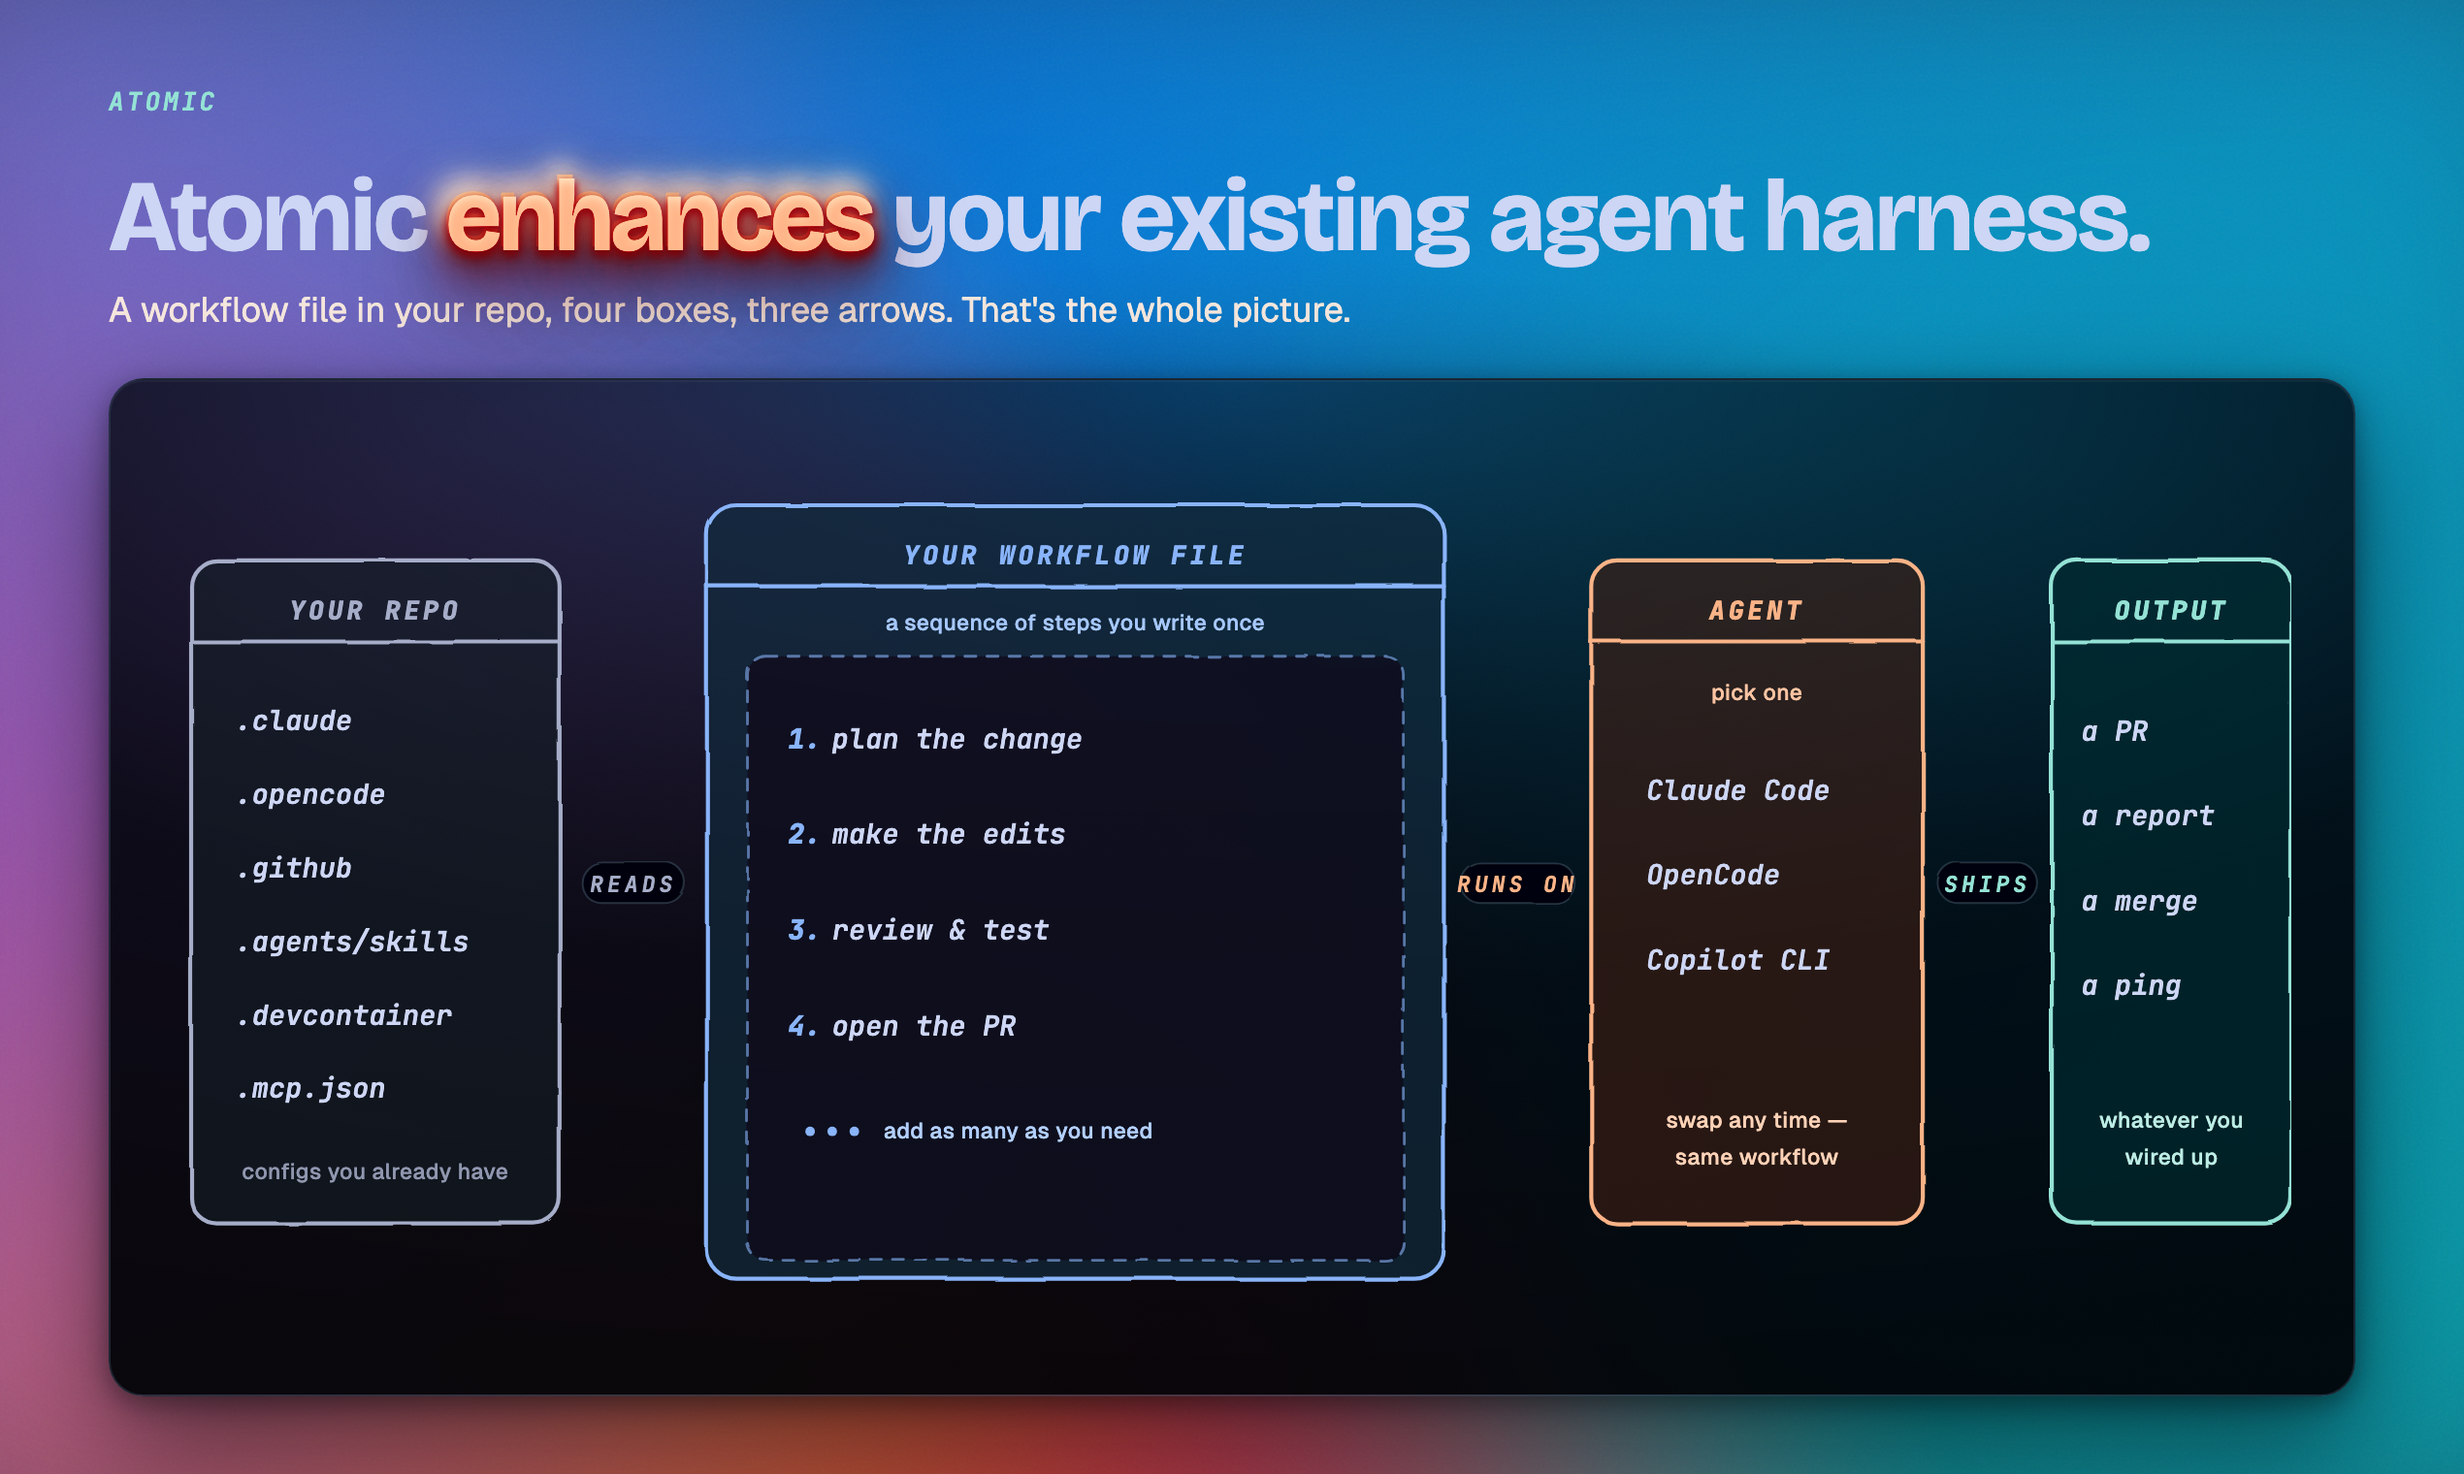
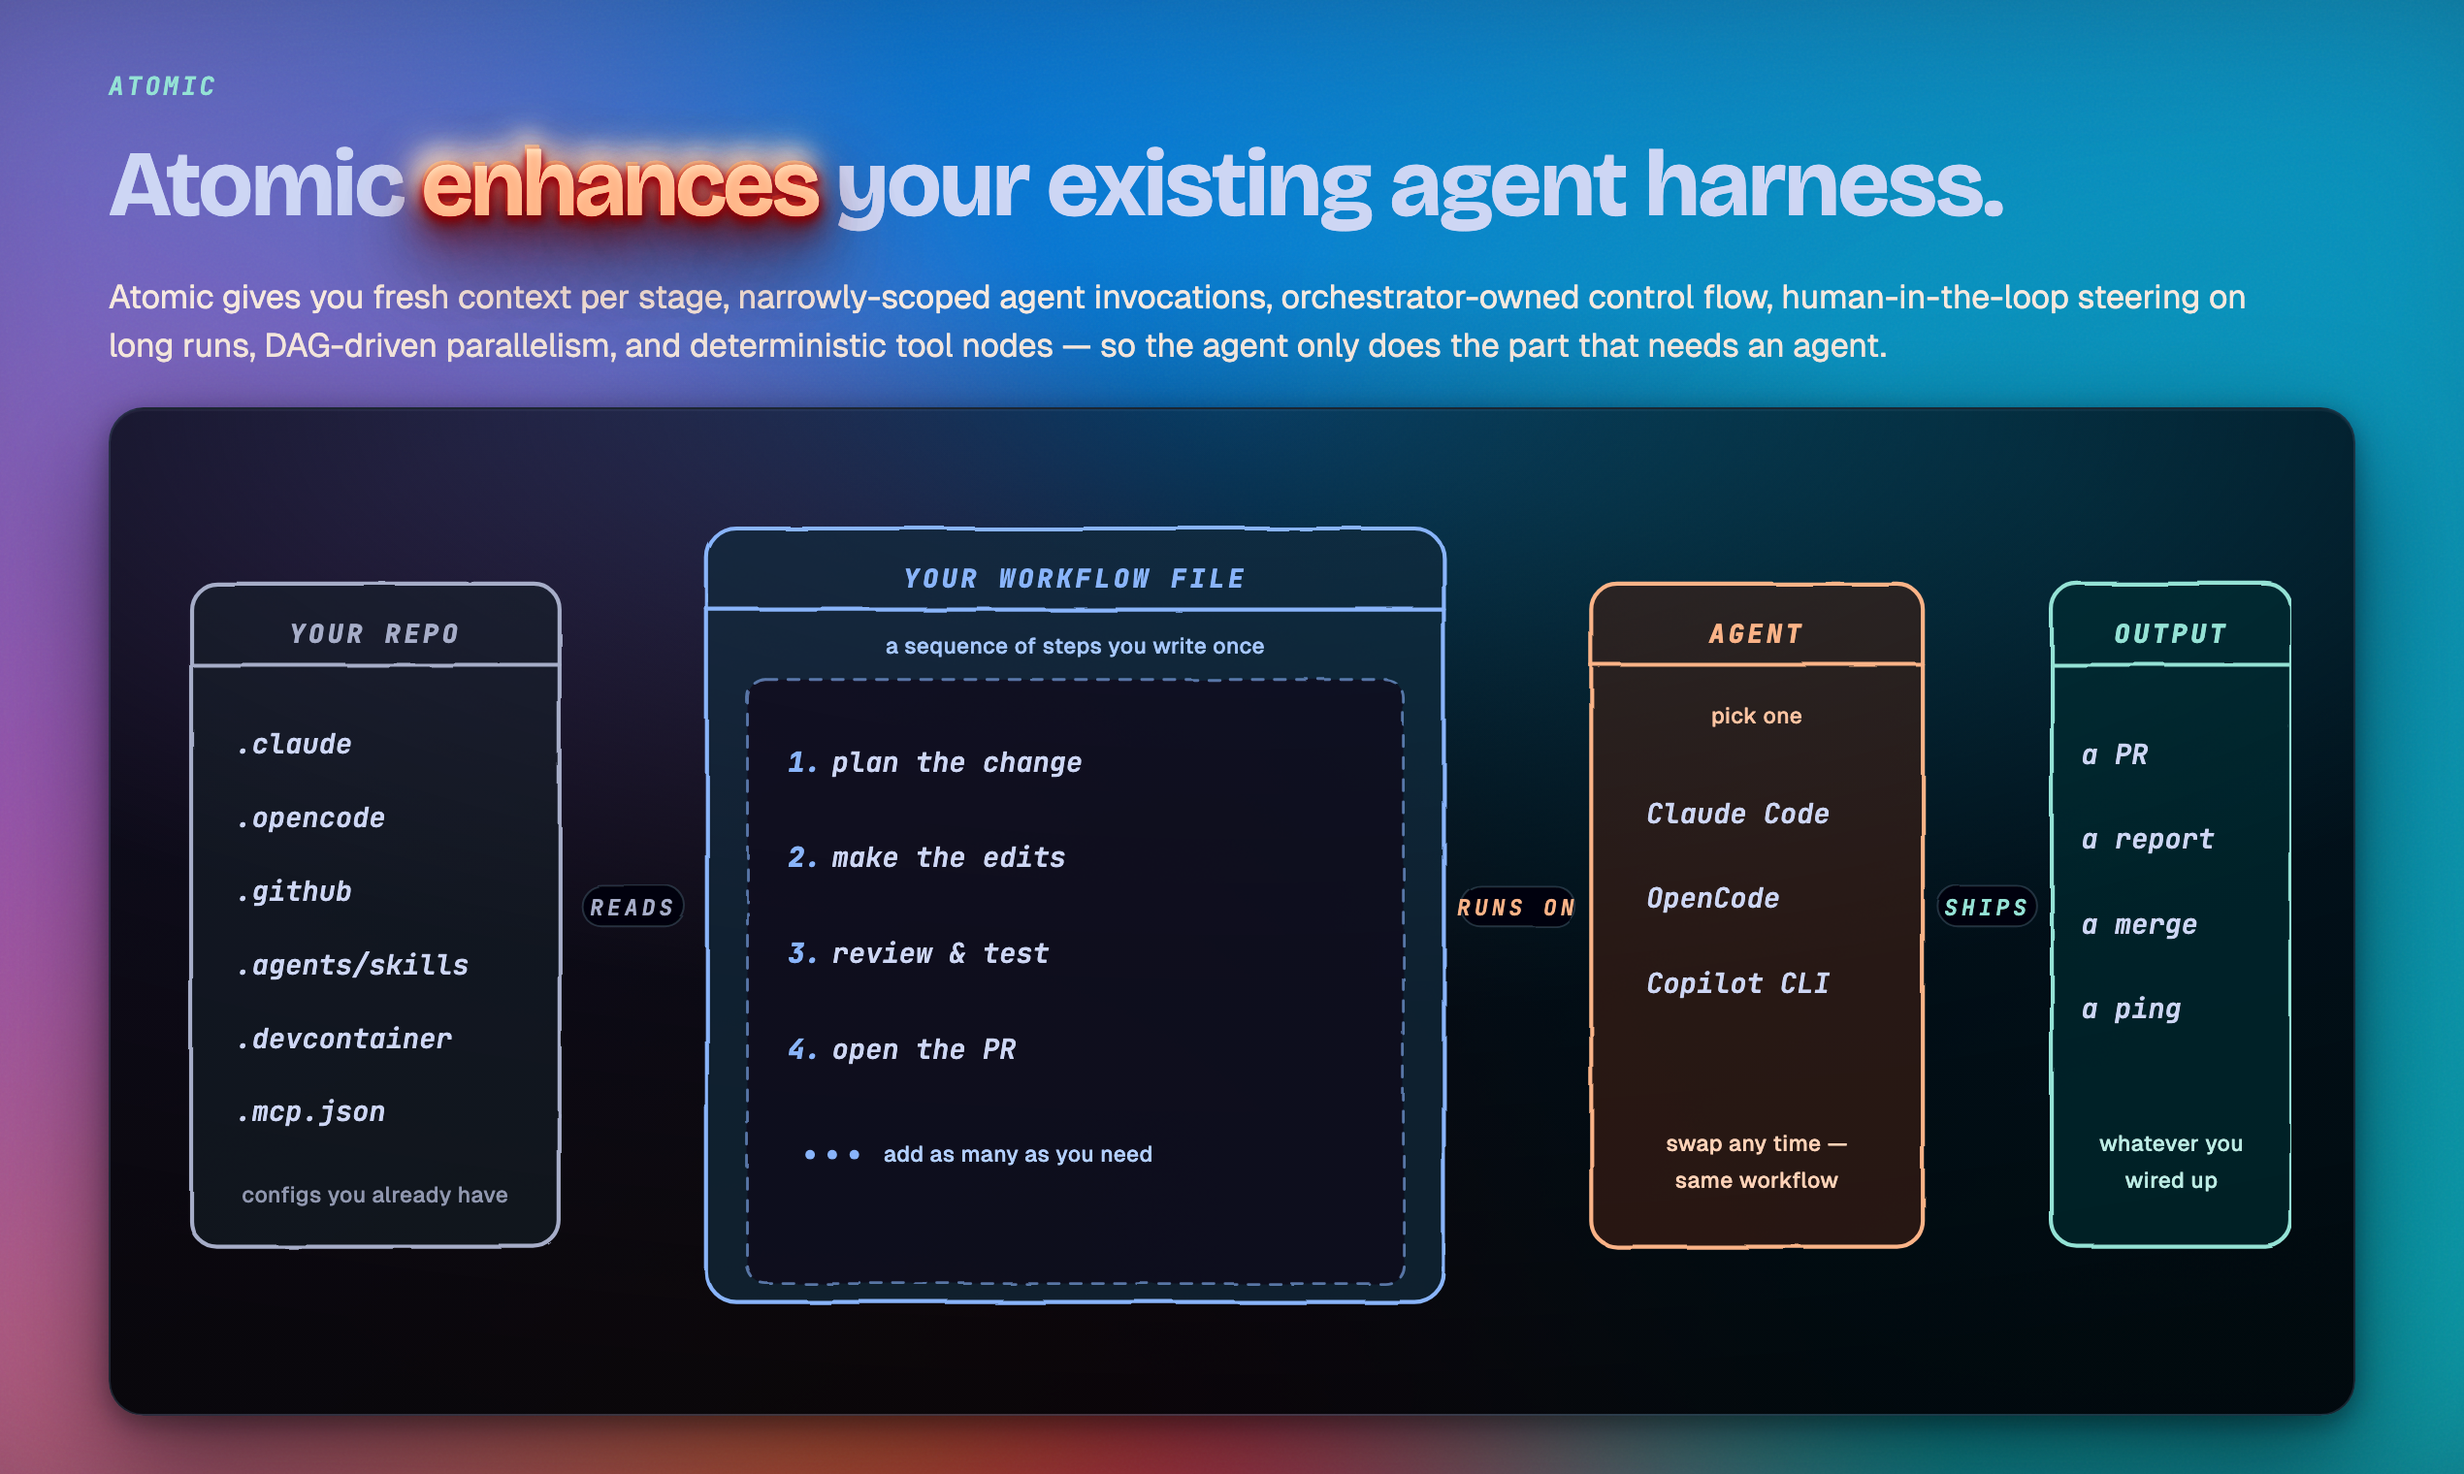
feat(product-hunt): tighten slide 05 spacing and expand architecture subhead
Reduce padding, wordmark, and headline sizes on the architecture slide so the
diagram has more vertical room, and replace the brief subhead with a fuller
description of Atomic's workflow capabilities. Update the matching diagram
asset.

diff --git a/assets/product-hunt/slides/05-architecture.html b/assets/product-hunt/slides/05-architecture.html
@@ -149,20 +149,20 @@
     <div class="film-grain"></div>
 
     <!-- Content -->
-    <div class="slide__content" style="padding: 44px 56px 40px; display: flex; flex-direction: column;">
+    <div class="slide__content" style="padding: 36px 56px 30px; display: flex; flex-direction: column;">
 
       <!-- Wordmark -->
-      <div class="wordmark" style="margin-bottom: 24px;">ATOMIC</div>
+      <div class="wordmark" style="margin-bottom: 18px;">ATOMIC</div>
 
       <!-- Headline -->
       <h1 style="
         font-family: var(--font-display);
         font-weight: 700;
-        font-size: 52px;
+        font-size: 48px;
         line-height: 1.04;
         letter-spacing: -0.025em;
         color: var(--mocha-text);
-        margin-bottom: 8px;
+        margin-bottom: 20px;
       ">Atomic
         <span
           class="bubble-text bubble-text--warm"
@@ -173,12 +173,12 @@
       <!-- Subhead -->
       <p style="
         font-family: var(--font-body);
-        font-size: 18px;
+        font-size: 17px;
         color: var(--text-on-gradient);
-        line-height: 1.45;
-        margin-bottom: 22px;
-        max-width: 760px;
-      ">A workflow file in your repo, four boxes, three arrows. That's the whole picture.</p>
+        line-height: 1.5;
+        margin-bottom: 18px;
+        max-width: 1120px;
+      ">Atomic gives you fresh context per stage, narrowly-scoped agent invocations, orchestrator-owned control flow, human-in-the-loop steering on long runs, DAG-driven parallelism, and deterministic tool nodes — so the agent only does the part that needs an agent.</p>
 
       <!-- ================================================================
            Excalidraw-style flow on a dark sketch canvas
